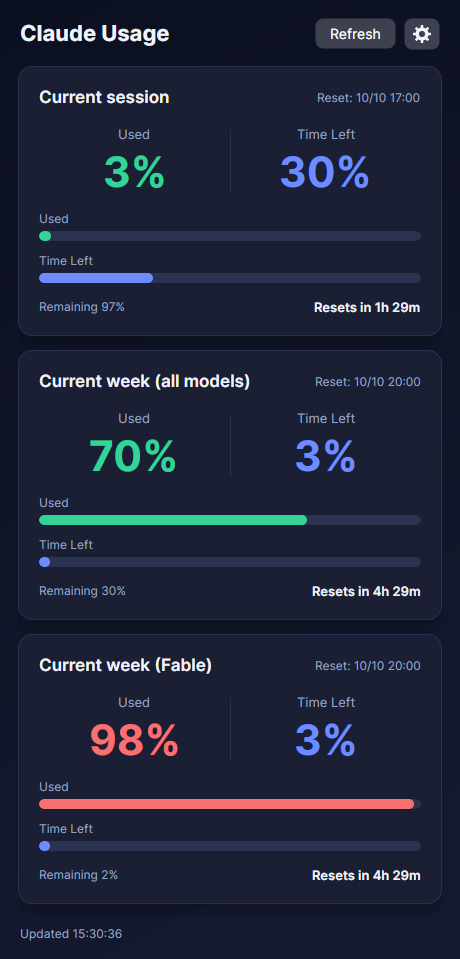
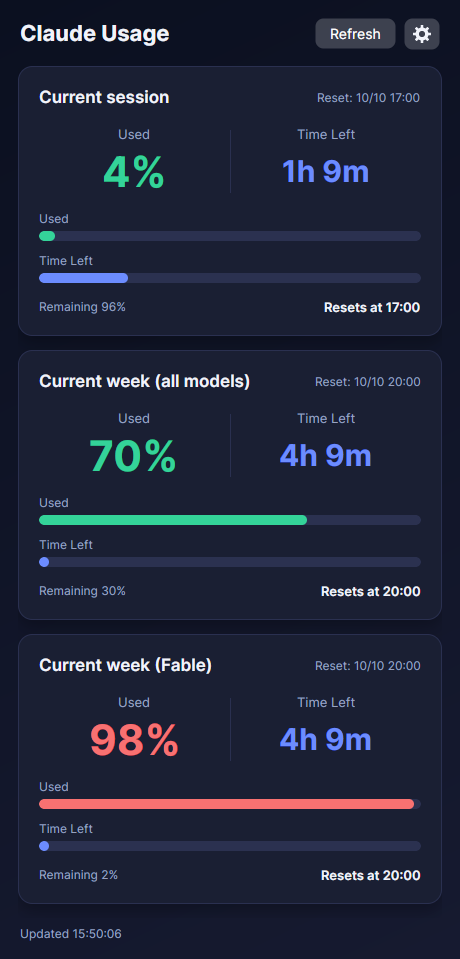
Show time left as days, hours and minutes; show reset time; new screenshot
The Time Left number is now a duration (4d 3h 12m, 4h 29m, 29m) instead
of a percent, and the bottom line reads Resets at HH:mm, with the date
when the reset is not today. The README screenshot shows the new text.

diff --git a/src/ClaudeUsage/ViewModels/LimitCardViewModel.cs b/src/ClaudeUsage/ViewModels/LimitCardViewModel.cs
@@ -70,9 +70,14 @@ public sealed class LimitCardViewModel : ViewModelBase
     // One line for the tray tooltip.
     public string ShortText => _showUsed ? $"{Title}: {UsedPercent:0}% used" : $"{Title}: {RemainingPercent:0}% left";
 
+    // Share of the time window that is still ahead, 0..100, for the bar.
     public double TimeLeftPercent { get; private set; }
+
+    // Time until the reset, for example "4d 3h 12m", "4h 29m" or "29m".
     public string TimeLeftText { get; private set; } = "-";
-    public string CountdownText { get; private set; } = "";
+
+    // "Resets at 20:00", or "Resets at 12/10 20:00" when the reset is not today.
+    public string ResetAtText { get; private set; } = "";
 
     // Recomputes the values that change as the clock moves.
     public void Tick(DateTimeOffset now)
@@ -91,14 +96,17 @@ public sealed class LimitCardViewModel : ViewModelBase
         if (_window is { } window)
         {
             TimeLeftPercent = Math.Clamp(left / window * 100, 0, 100);
-            TimeLeftText = $"{TimeLeftPercent:0}%";
         }
 
-        CountdownText = left == TimeSpan.Zero ? "Resetting now" : "Resets in " + Format(left);
+        TimeLeftText = Format(left);
+
+        var resetLocal = resetsAt.ToLocalTime();
+        var format = resetLocal.Date == now.ToLocalTime().Date ? "HH:mm" : "dd/MM HH:mm";
+        ResetAtText = "Resets at " + resetLocal.ToString(format, CultureInfo.InvariantCulture);
 
         Raise(nameof(TimeLeftPercent));
         Raise(nameof(TimeLeftText));
-        Raise(nameof(CountdownText));
+        Raise(nameof(ResetAtText));
     }
 
     private static string TitleFor(LimitEntry entry) => entry.Kind switch
@@ -131,18 +139,19 @@ public sealed class LimitCardViewModel : ViewModelBase
         }
     }
 
+    // Days, hours and minutes; leading parts that are zero are left out.
     private static string Format(TimeSpan left)
     {
         if (left.TotalDays >= 1)
         {
-            return $"{(int)left.TotalDays}d {left.Hours}h";
+            return $"{(int)left.TotalDays}d {left.Hours}h {left.Minutes}m";
         }
 
         if (left.TotalHours >= 1)
         {
-            return $"{(int)left.TotalHours}h {left.Minutes:00}m";
+            return $"{left.Hours}h {left.Minutes}m";
         }
 
-        return $"{left.Minutes}m {left.Seconds:00}s";
+        return left.TotalMinutes >= 1 ? $"{left.Minutes}m" : "<1m";
     }
 }

diff --git a/README.md b/README.md
@@ -44,7 +44,7 @@ weekly usage limits, how much time is left in each window, and when they reset.
 | | |
 | --- | --- |
 | :bar_chart: **One card per limit** | Current session, current week (all models), and one card for each model-specific weekly limit. |
-| :hourglass_flowing_sand: **Time left** | Percent of the time window that is left, the local reset time, and a live countdown. |
+| :hourglass_flowing_sand: **Time left** | Days, hours and minutes until the reset, a bar for the share of the window that is left, and the local reset time. |
 | :traffic_light: **Colour by severity** | Green, amber or red, taken from the severity the server reports for each limit. |
 | :arrows_counterclockwise: **Remaining or used** | Choose which of the two the big number and the bar show. |
 | :pushpin: **Tray icon** | A coloured number in the system tray, redrawn on every update, with all limits in the tooltip. |
@@ -88,8 +88,10 @@ Start the app. The window opens tall enough to show every card.
 Each card shows:
 
 - the **remaining** or the **used** percent of the limit, as a number and a bar
-- **Time Left**: the percent of the limit's time window that is still ahead
-- the local **reset time** and a countdown to it
+- **Time Left**: the time until the reset, as days, hours and minutes
+  (`4d 3h 12m`), hours and minutes (`4h 29m`) or minutes (`29m`), and a bar
+  showing how much of the limit's time window is still ahead
+- **Resets at**: the local reset time, with the date when it is not today
 
 The **Refresh** button fetches at once. The **cogwheel** opens the settings.
 The line at the bottom shows the time of the last update, or the reason a fetch
@@ -99,7 +101,9 @@ The tray icon shows one limit as a number in that limit's colour. Clicking it
 brings the window to the front; its menu has **Open**, **Refresh** and **Exit**.
 Closing the window exits the app.
 
-### How "Time Left" is calculated
+### How the "Time Left" bar is calculated
+
+The bar is the time until the reset as a share of the whole window.
 
 | Limit | Window start | Window end |
 | --- | --- | --- |
